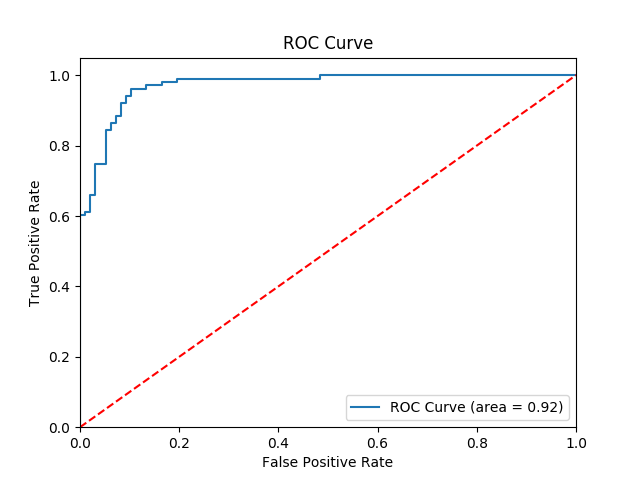
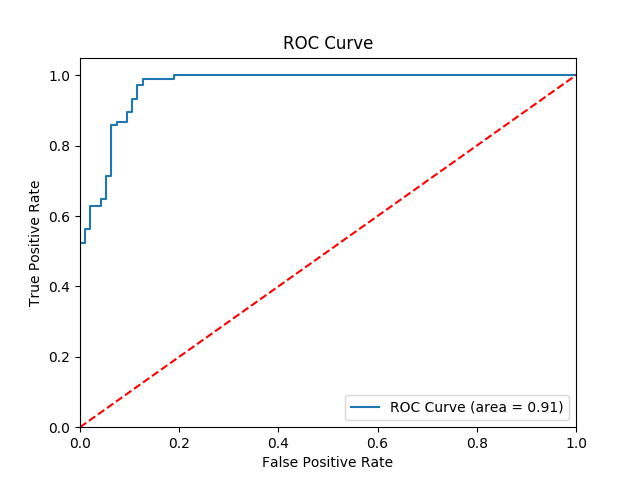
create histogram of predicted scores

diff --git a/homework7/yelp_sentiment_analysis.py b/homework7/yelp_sentiment_analysis.py
@@ -1,6 +1,5 @@
 import pandas as pd
 import matplotlib.pyplot as plt
-
 from string import punctuation
 from operator import itemgetter
 
@@ -59,9 +58,14 @@ def max_min_document_frequency(data):
 
 
 
-def plot_histograms(data):
-    plt.hist(data['text length'], bins=50)
-    plt.ylabel('Number of words')
+def plot_histograms(predictions, threshold):
+    kwargs = dict(histtype='stepfilled', alpha=0.3, density=True, bins=50)
+    plt.hist(predictions[predictions[:,0] >= threshold], **kwargs)
+    plt.hist(predictions[predictions[:,0] < threshold], **kwargs)
+    plt.ylabel('Count of predictions in bucket')
+    plt.xlabel('Predicted Score')
+    plt.title("Histogram of Predicted Scores")
+    plt.savefig('hist_predicted_scores')
     plt.show()
 
 def truncate(content, length=200, suffix='...'):
@@ -165,19 +169,21 @@ plot_word_distribution(distances[0], "cosine_distances")
 
 
 #split into train and test sets. Fit Log Reg model
-X_train, X_test, y_train, y_test = train_test_split(training_set, y, test_size=0.1, random_state=1)
+X_train, X_test, y_train, y_test = train_test_split(training_set, y, test_size=0.1)
 log_regression = LogisticRegression(random_state=0, solver='liblinear',
                          multi_class='ovr').fit(X_train, y_train)  #liblinear for small binary problems
 
 #predit and get accuracy
 predictions = log_regression.predict(X_test)
 print(confusion_matrix(y_test, predictions))
-print('\n')
 print(classification_report(y_test, predictions)) #reaching 92% accuracy
+
+#Plot a histogram of the scores on the training data xlabel -predicted prob ylabel- count of predictions
+plot_histograms(log_regression.predict_proba(X_train), 0.4)
 
 
 #ROC Curve
-log_roc_auccuracy = roc_auc_score(y_test, log_regression.predict(X_test))
+log_roc_accuracy = roc_auc_score(y_test, log_regression.predict(X_test))
 fpr, tpr, thresholds = roc_curve(y_test.values, log_regression.predict_proba(X_test)[:,1], pos_label=5)
 
-plot_roc_curve(fpr,tpr,log_roc_auccuracy)
+plot_roc_curve(fpr,tpr,log_roc_accuracy)
